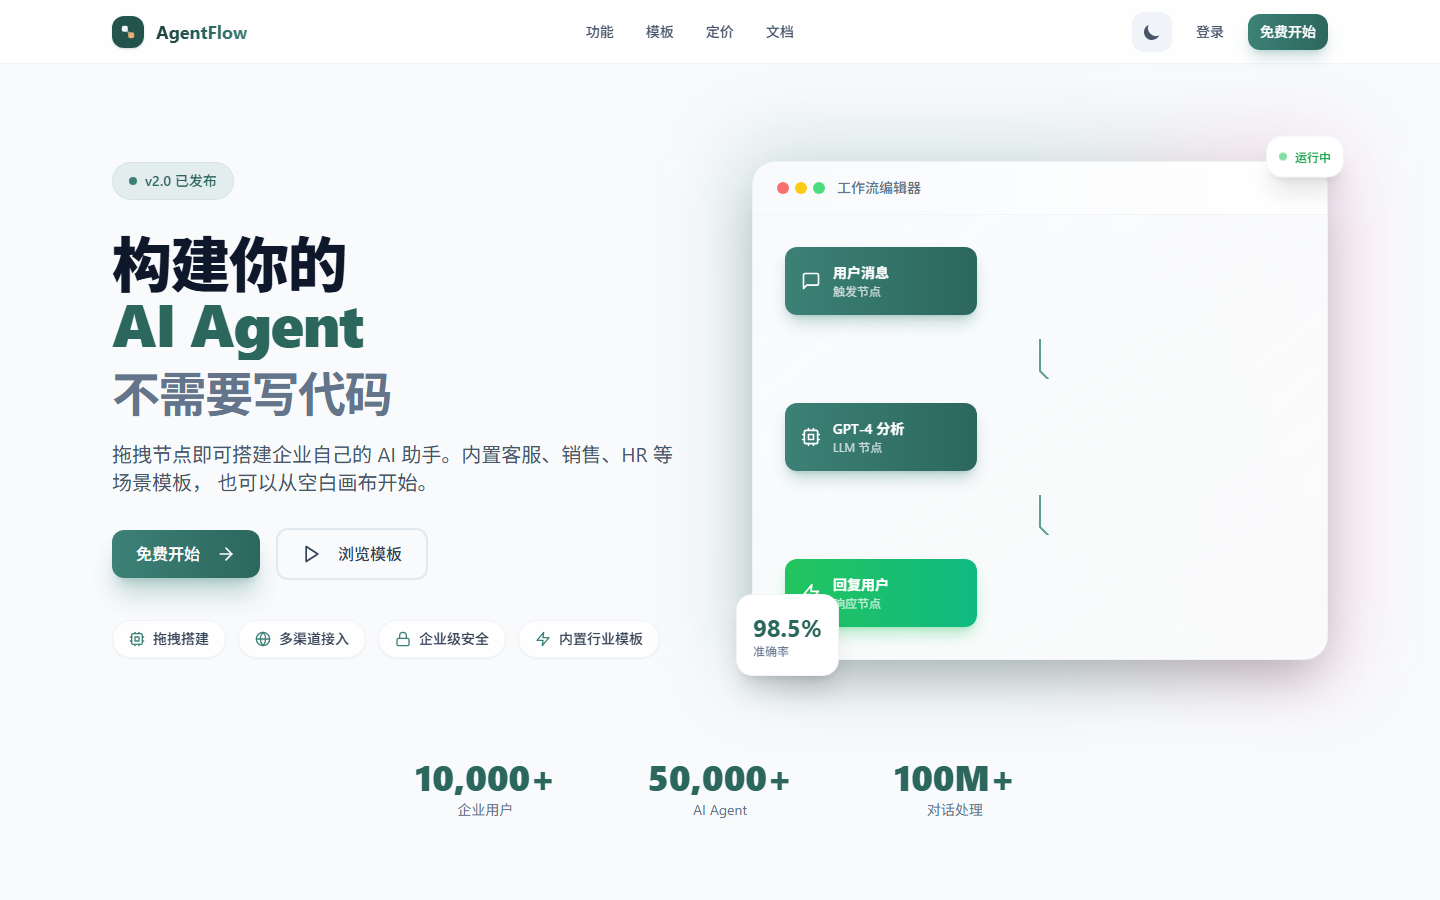
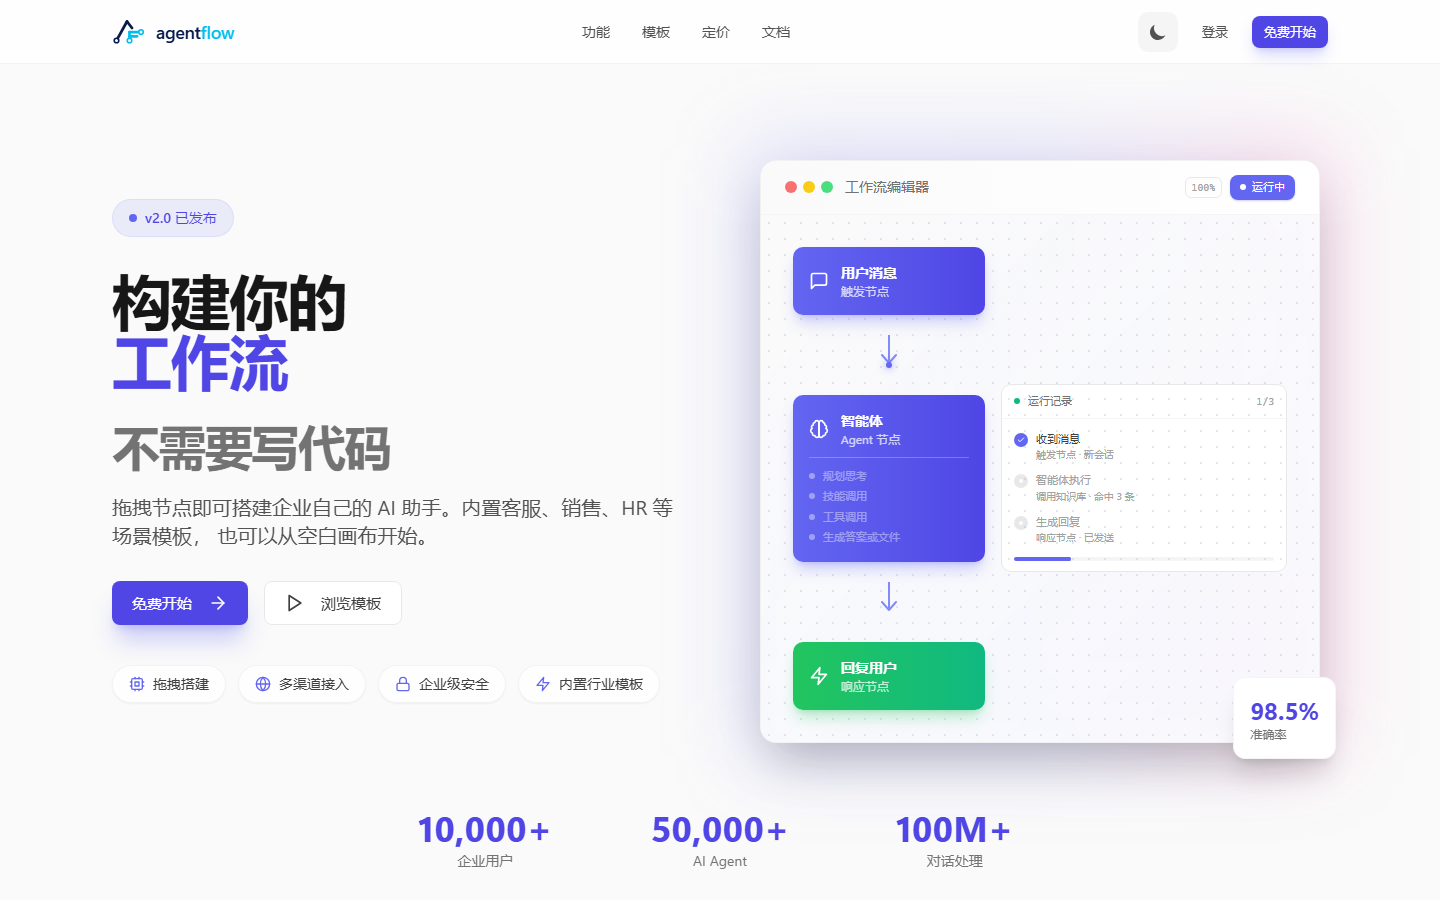
docs: 重拍 README 界面截图并同步文案
前端重构后旧截图已过时，本次用新版界面重拍 assets/screens 下 11 张截图，
并同步 README 中控制台指标、Agent 配置页签、Skill 数量（11 -> 23）的描述。
录屏脚本新增 screens 场景，支持批量出图。

diff --git a/README.en.md b/README.en.md
@@ -116,15 +116,15 @@ While the Agent runs, a live "calling tool" line appears; only the current one s
 <table>
 <tr>
 <td width="50%"><img src="assets/screens/01-landing.png" alt="Landing page"><br><sub><b>Landing page</b> — the no-code value proposition</sub></td>
-<td width="50%"><img src="assets/screens/02-dashboard.png" alt="Dashboard"><br><sub><b>Dashboard</b> — agents, active conversations, model usage</sub></td>
+<td width="50%"><img src="assets/screens/02-dashboard.png" alt="Dashboard"><br><sub><b>Dashboard</b> — total agents, active conversations, knowledge bases, new conversations this month</sub></td>
 </tr>
 <tr>
-<td width="50%"><img src="assets/screens/04-agent-create.png" alt="Agent setup"><br><sub><b>Agent setup</b> — model, prompt, workflow, skills</sub></td>
+<td width="50%"><img src="assets/screens/04-agent-create.png" alt="Agent setup"><br><sub><b>Agent setup</b> — name, prompt, model, with workflow and knowledge base on separate tabs</sub></td>
 <td width="50%"><img src="assets/screens/06-chat.png" alt="Chat"><br><sub><b>Chat</b> — streaming replies with inline artifact preview</sub></td>
 </tr>
 <tr>
 <td width="50%"><img src="assets/screens/08-templates.png" alt="Templates"><br><sub><b>Template marketplace</b> — browse by category, one click to apply</sub></td>
-<td width="50%"><img src="assets/screens/09-skills.png" alt="Skill plaza"><br><sub><b>Skill plaza</b> — 11 built-in skills, ready to use</sub></td>
+<td width="50%"><img src="assets/screens/09-skills.png" alt="Skill plaza"><br><sub><b>Skill plaza</b> — 23 built-in skills, ready to use</sub></td>
 </tr>
 <tr>
 <td width="50%"><img src="assets/screens/10-knowledge.png" alt="Knowledge base"><br><sub><b>Knowledge base</b> — upload, chunk, semantic search</sub></td>
@@ -139,7 +139,7 @@ While the Agent runs, a live "calling tool" line appears; only the current one s
 - **🎨 Drag-and-drop workflow editor** — ReactFlow canvas with six node types (Trigger / LLM / Knowledge / Tool / Condition / Response) to combine freely; edits take effect on save
 - **🤖 Multi-model hot-swap** — just fill in the endpoint and model name under Settings → Model Config. Works with any **OpenAI-compatible** endpoint (including local Ollama), **no restart needed**
 - **📚 Knowledge-base RAG** — documents are chunked and indexed on upload, vector recall returns results with relevance scores; the embedding model is configured **separately** from the chat model
-- **🧩 Skill marketplace** — 11 built-in skills (Excel / PPT / PDF / academic search / meeting notes / statistics and more), admins can add or remove them from the console
+- **🧩 Skill marketplace** — 23 built-in skills (Excel / PPT / PDF / academic search / meeting notes / statistics and more), admins can add or remove them from the console
 - **📎 Artifact delivery** — files generated by an Agent come back as downloadable attachments, and **image artifacts render inline in the conversation** instead of forcing a download first
 - **🧰 Template marketplace** — customer service / sales / HR / finance scenarios; one click turns a template into a working Agent
 - **👤 User system** — JWT auth, email-code signup, plan quotas, admin allowlist, fully self-hosted data
@@ -296,7 +296,7 @@ Ready to use in the Skill plaza; admins can add or remove them from the console 
 | **Statistics Assistant** | Hypothesis testing, sample size, confidence intervals, with decision advice |
 | **Chart Visualization** | Picks the chart type that fits the data and renders it |
 
-A skill is just a directory containing a `SKILL.md`. Add a folder in the same format to extend it with your own.
+A skill is just a directory containing a `SKILL.md`. Add a folder in the same format to extend it with your own. (The plaza ships with 23 skills in total — the table above lists the most common 11.)
 
 ---
 
@@ -436,7 +436,4 @@ Released under the **GPL-2.0** license. See the [LICENSE](LICENSE) file for deta
  <picture>
    <source media="(prefers-color-scheme: dark)" srcset="https://api.star-history.com/chart?repos=phclaw/agentflow&type=date&theme=dark&legend=top-left" />
    <source media="(prefers-color-scheme: light)" srcset="https://api.star-history.com/chart?repos=phclaw/agentflow&type=date&legend=top-left" />
-   <img alt="Star History Chart" src="https://api.star-history.com/chart?repos=phclaw/agentflow&type=date&legend=top-left" />
- </picture>
-</a>
-</div>
+   <img alt="Star History Chart" src="https://api.star-history.com/chart?repos=phclaw/agentflow&type=date&legend=to
